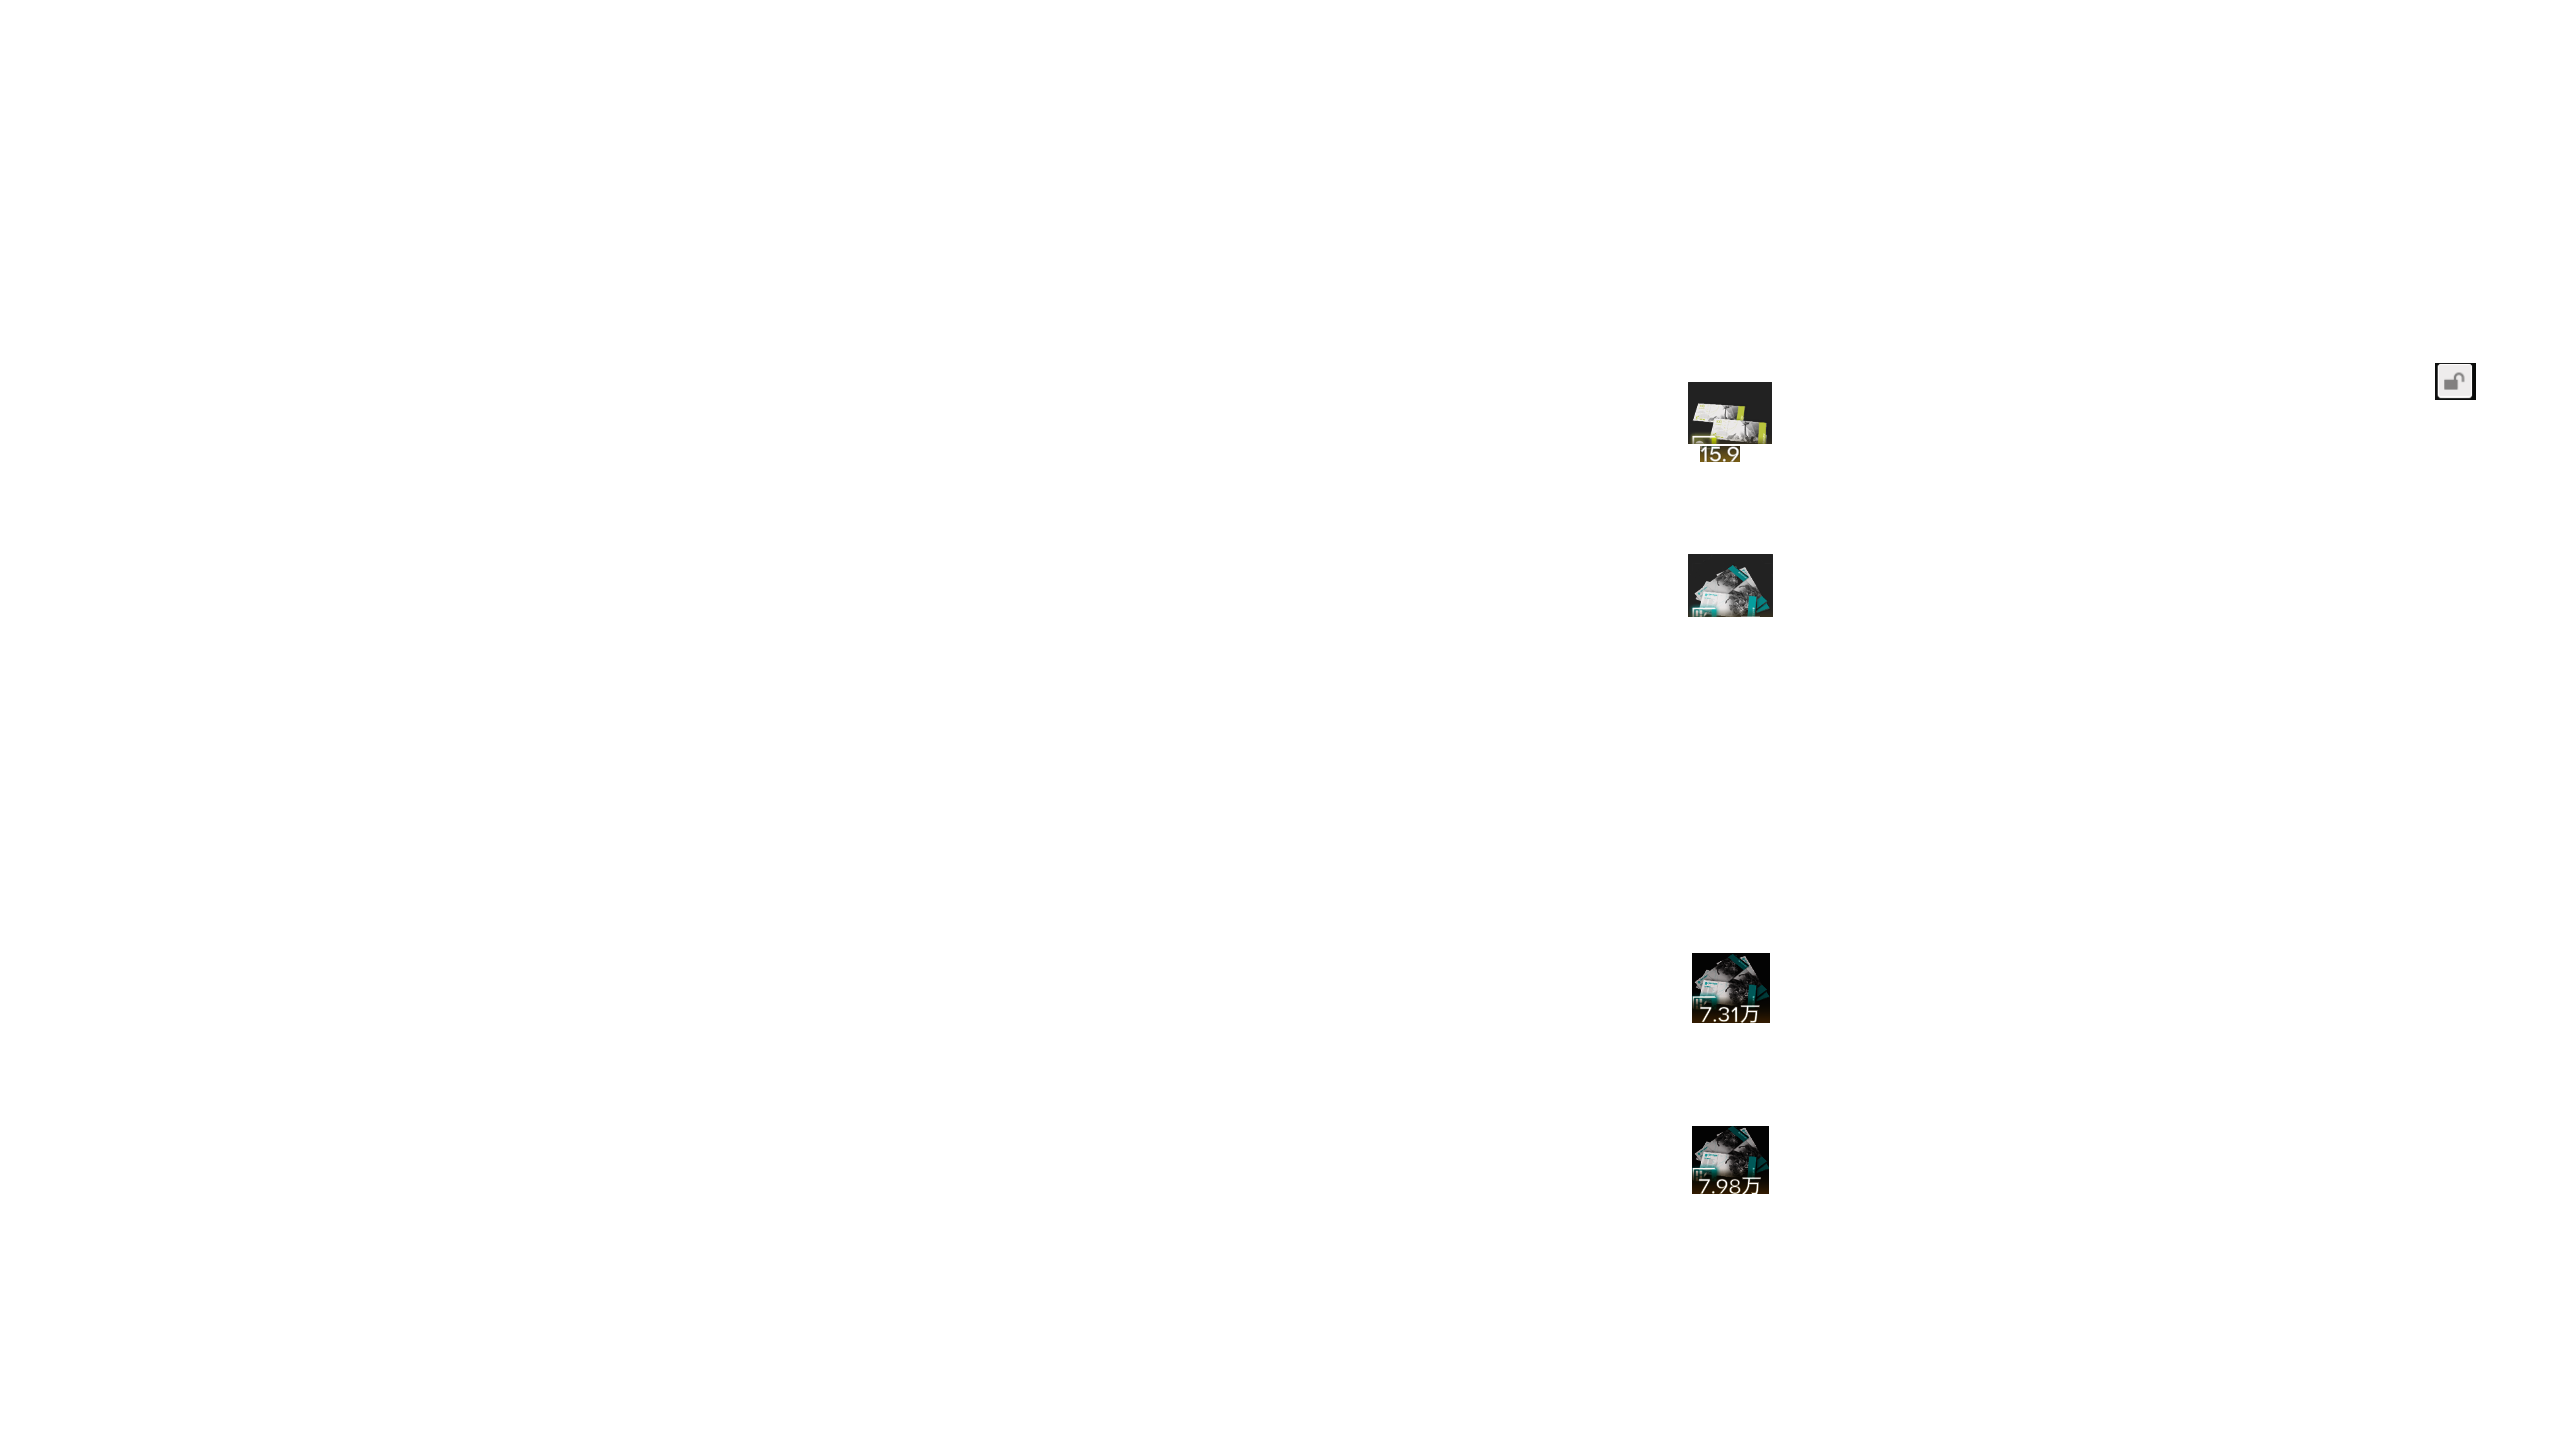
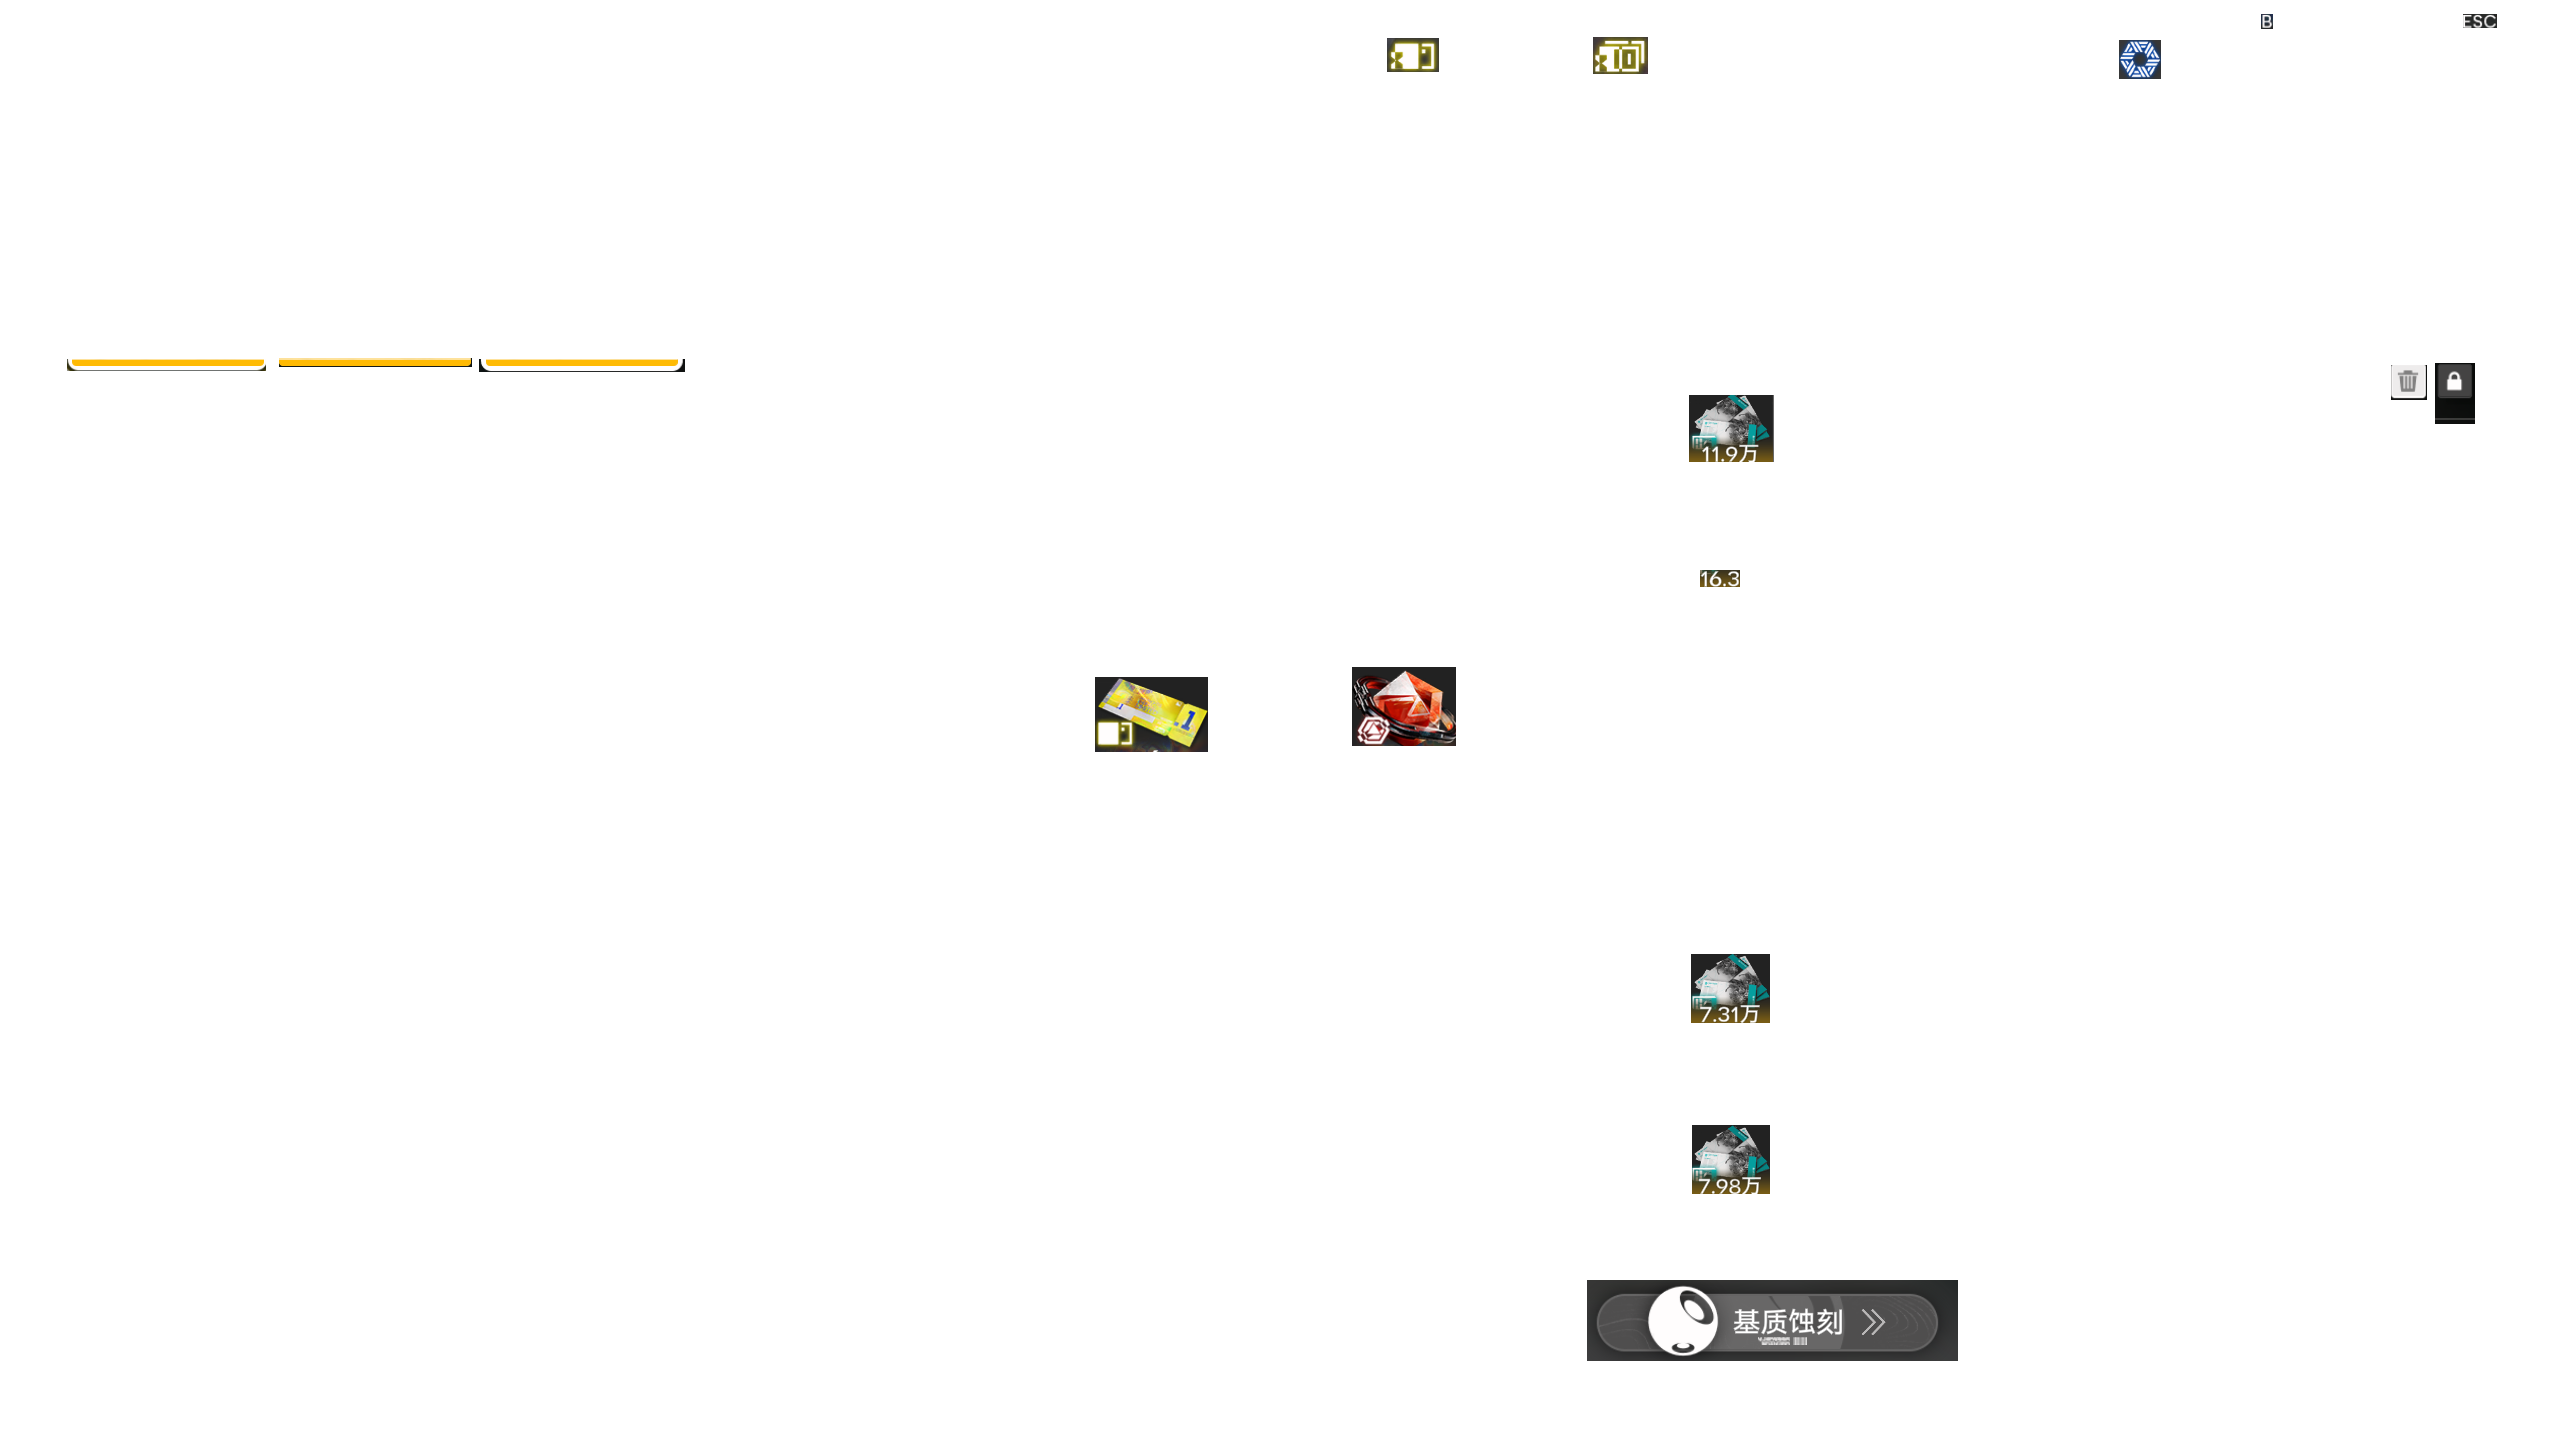
feat: 更新特征列表，添加新的战斗图标和联系项

diff --git a/src/data/FeatureList.py b/src/data/FeatureList.py
@@ -9,6 +9,7 @@ class FeatureList(str, Enum):
     all_receive = 'all_receive'
     antal_battle_icon = 'antal_battle_icon'
     antal_contact = 'antal_contact'
+    arcane_battle_icon = 'arcane_battle_icon'
     arcane_contact = 'arcane_contact'
     arclight_battle_icon = 'arclight_battle_icon'
     arclight_contact = 'arclight_contact'
@@ -152,6 +153,7 @@ class FeatureList(str, Enum):
     market_plus_button = 'market_plus_button'
     material_dispatch_enter = 'material_dispatch_enter'
     max_icon = 'max_icon'
+    mi_fu_battle_icon = 'mi_fu_battle_icon'
     mi_fu_contact = 'mi_fu_contact'
     minerals_icon = 'minerals_icon'
     monthly_card = 'monthly_card'
